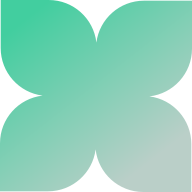
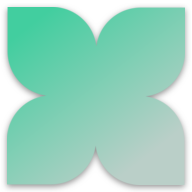
🍱 [Update]: ファビコン画像を更新

diff --git a/pages/_document.tsx b/pages/_document.tsx
@@ -29,7 +29,7 @@ export default class _Document extends Document {
           />
           <link rel="manifest" href="/site.webmanifest" />
           <link rel="mask-icon" href="/safari-pinned-tab.svg" color="#5bbad5" />
-          <meta name="msapplication-TileColor" content="#da532c" />
+          <meta name="msapplication-TileColor" content="#00aba9" />
           <meta name="theme-color" content="#ffffff" />
         </Head>
         <body>
